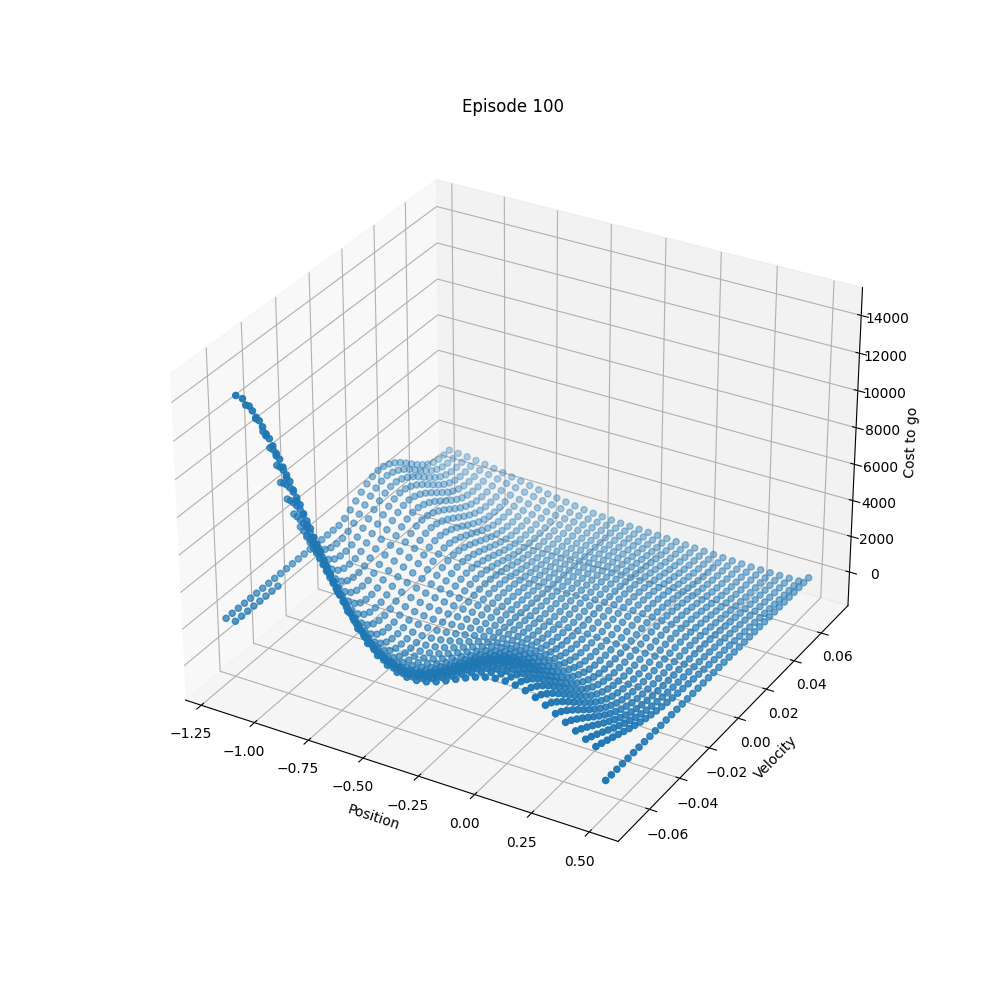
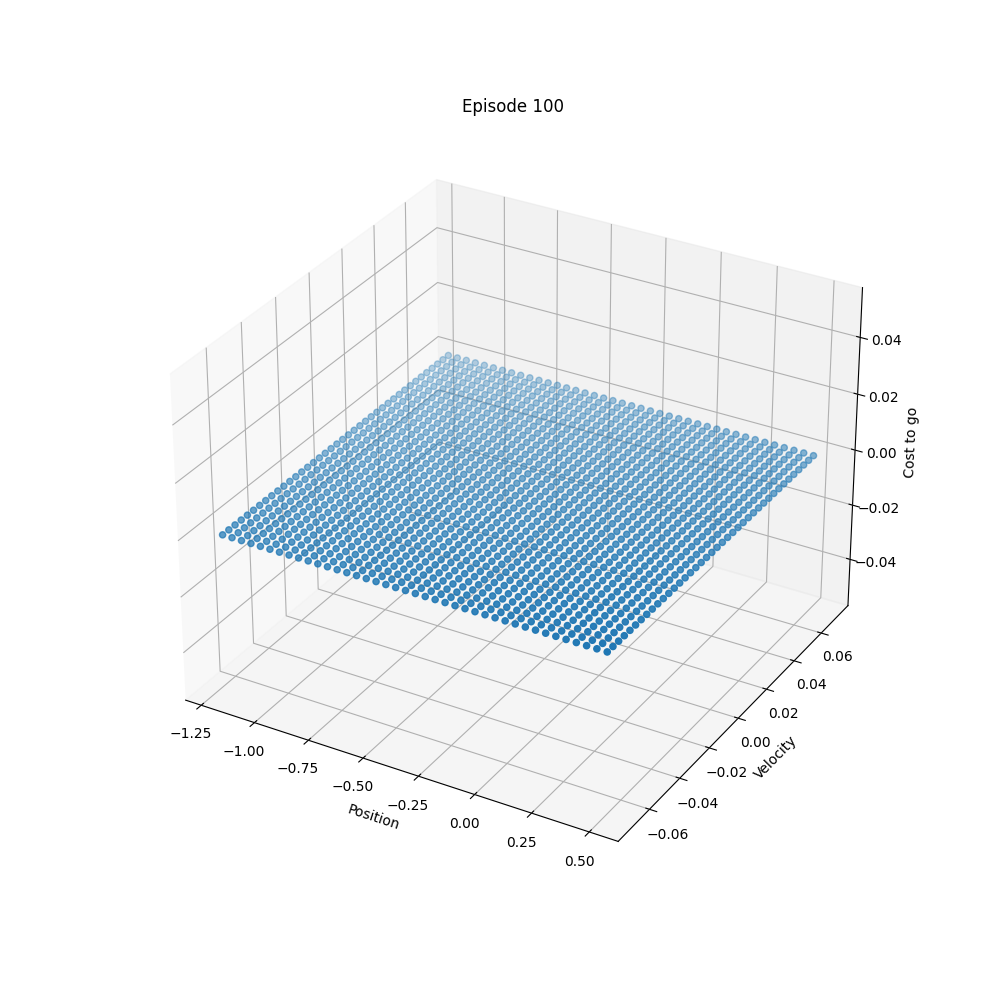
...

diff --git a/PA3/temp.py b/PA3/temp.py
@@ -23,7 +23,11 @@ class SarsaLambda:
             self.alphas.append(alpha / np.linalg.norm(const))
 
         self.weights = np.zeros(self.num_bases)
-        self.trace = np.zeros(np.floor(np.log2(0.05) / np.log2(lam)))
+        self.trace = np.zeros(int(np.ceil(np.log2(0.05) / np.log2(lam)) + 1))
+        self.trace[0] = 1
+        for i in range(1, len(self.trace)):
+            self.trace[i] = self.trace[i - 1] * lam
+        print(len(self.trace), self.trace)
 
     # estimate the value of given state and action
     def value(self, action):
@@ -41,7 +45,7 @@ class SarsaLambda:
 
         features = []
         for i in range(self.num_bases):
-            features.append(self.bases(state, self.consts[i]))
+            features.append(self.alphas[i] * self.bases(state, self.consts[i]))
         features = np.array(features)
 
         self.model.set(prev)
@@ -49,16 +53,27 @@ class SarsaLambda:
 
     # learn with given state and delta
     def learn(self, state, _, delta):
+        # Normalize the state | x = (x - x_min) / (x_max - x_min)
         for i in range(len(state)):
             state[i] = (state[i] - self.model.min_maxes[i * 2]) /\
                        (self.model.min_maxes[i * 2 + 1] - self.model.min_maxes[i * 2])
         state = np.array(state)
 
+        features = []
         for i in range(self.num_bases):
-            delta -= self.weights[i] * self.bases(state, self.consts[i])
+            features.append(self.alphas[i] * self.bases(state, self.consts[i]))
+        features = np.array(features)
 
-        for i in range(self.num_bases):
-            self.weights[i] += self.lam * self.alphas[i] * delta
+        self.trace *= self.lam
+        self.trace = np.roll(self.trace, 1)
+        self.trace[0] = np.dot(self.weights, features)
+        print(self.trace, np.dot(self.weights, features))
+
+        # delta -= np.sum(self.weights)
+
+        sum_trace = np.sum(self.trace)
+
+        self.weights += sum_trace * delta
 
         # active_tiles = self.get_active_tiles(state, action)
         # delta = target - np.sum(self.weights[active_tiles])

diff --git a/PA3/test.py b/PA3/test.py
@@ -35,6 +35,7 @@ def play(mountain_car, evaluator):
     mountain_car.reset()
     state = mountain_car.getState()
     action = get_action(mountain_car, evaluator)
+    Q = evaluator.value(action)
     steps = 1
 
     while steps < MAX_STEPS:
@@ -44,9 +45,11 @@ def play(mountain_car, evaluator):
         next_state = mountain_car.update(action)
         next_action = get_action(mountain_car, evaluator)
 
-        target = -1 + DISCOUNT * evaluator.value(next_action)
-        evaluator.learn(state, action, target)
+        Qp = evaluator.value(next_action)
+        delta = -1 + DISCOUNT * Qp - Q
+        evaluator.learn(state, action, delta)
 
+        Q = Qp
         state = next_state
         action = next_action
         steps += 1
@@ -125,7 +128,7 @@ def figure_2(order):
 
 
 if __name__ == '__main__':
-    figure_1()
-    # figure_2(3)
+    # figure_1()
+    figure_2(3)
     # figure_2(5)
     # figure_2(7)
